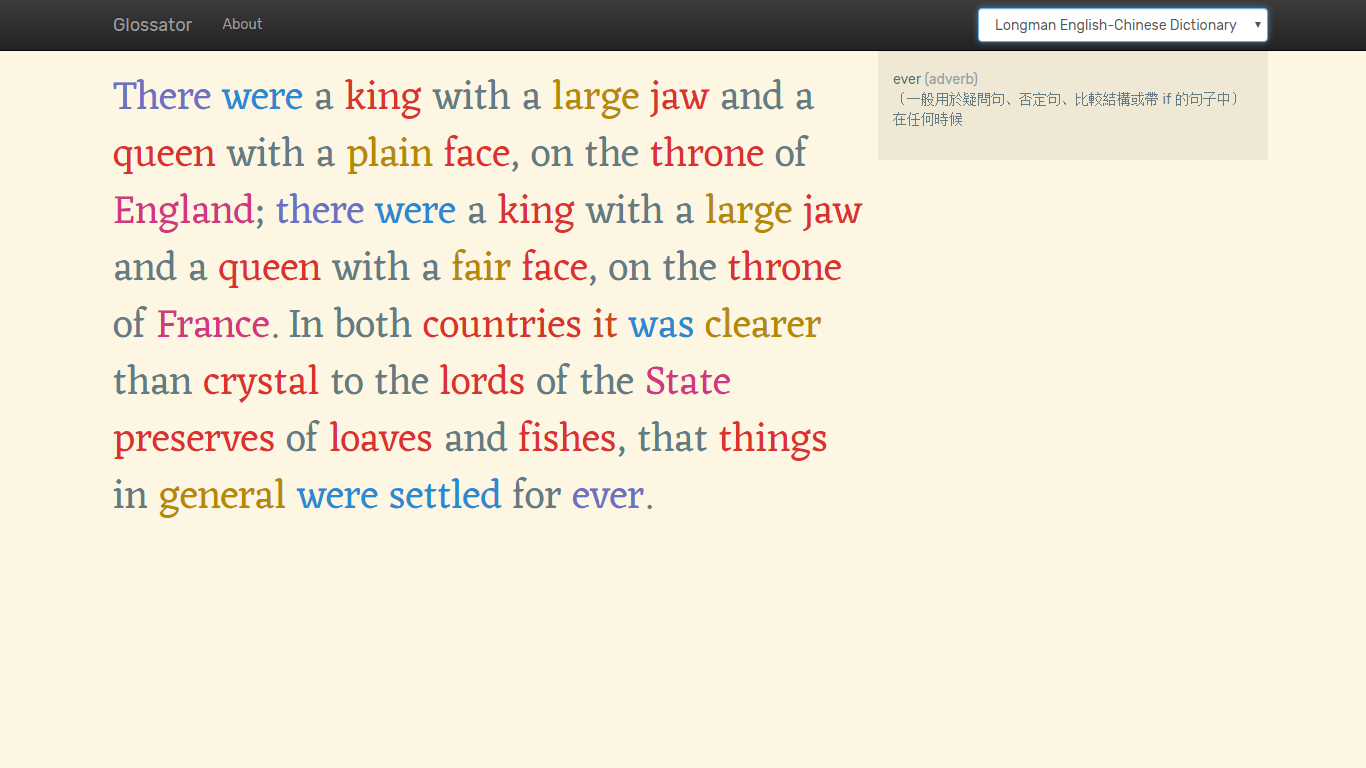
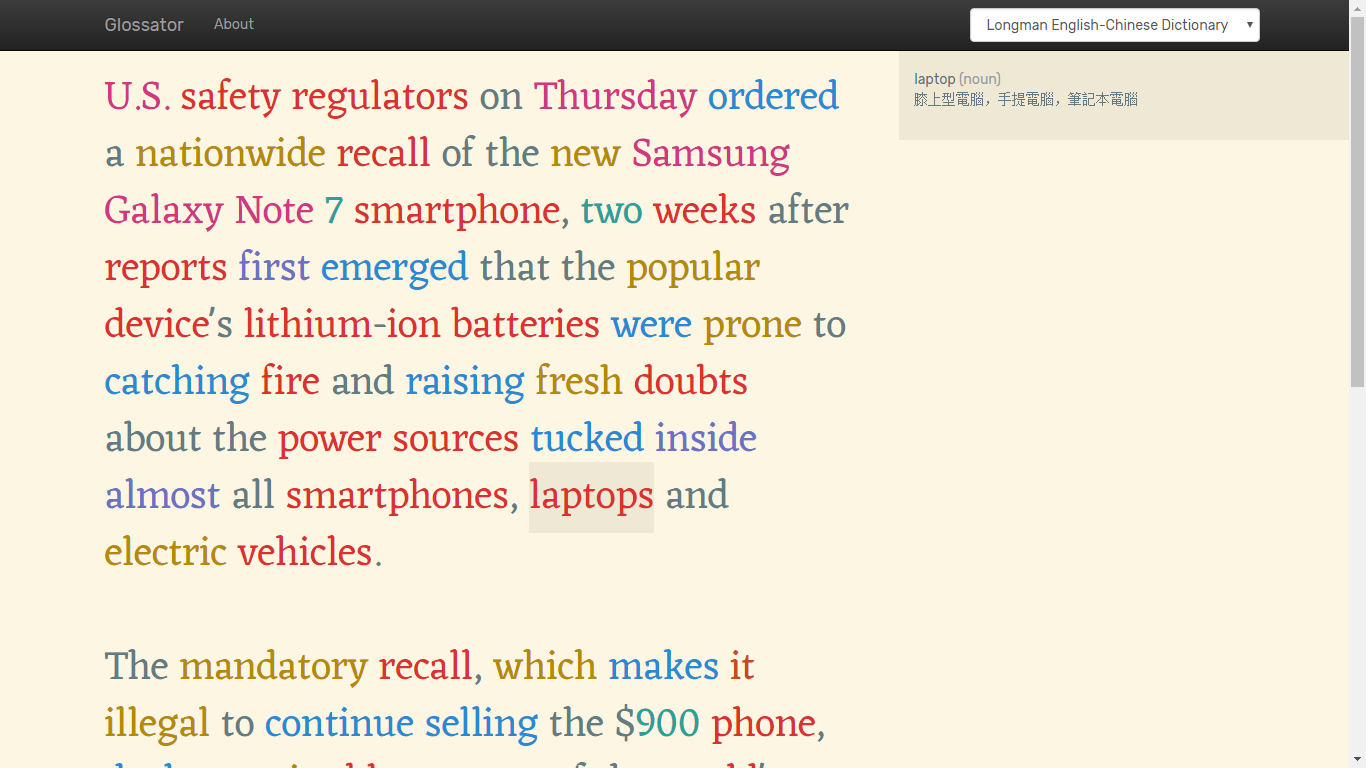
Final submission to Ramhacks

diff --git a/static/js/def_format.js b/static/js/def_format.js
@@ -77,6 +77,16 @@ $( "span.pword" ).mouseover(function() {
 
     $.get(pathstring, function(data) {
         if (data["results"].length != 0) {
+
+$( "span.word").each(function() {
+    $(this).css("background-color", "transparent");
+});
+$( "span[name=" + word + "]" ).each(function() {
+    $(this).css("background-color", "#eee8d5");
+});
+
+
+
             var defin = convert(word, data);
             $("div.defbox").html(defin);
         } else {
@@ -84,10 +94,20 @@ $( "span.pword" ).mouseover(function() {
             // and modify the defbox if the more broader query works...
             retry_pathstring = base.concat(word)
             $.get(retry_pathstring, function(retry_data) {
-                if (retry_data["results"].length != 0) {
+                //if (retry_data["results"].length != 0) {
+
+
+$( "span.word").each(function() {
+    $(this).css("background-color", "transparent");
+});
+$( "span[name=" + word + "]" ).each(function() {
+    $(this).css("background-color", "#eee8d5");
+});
+
+
                     var retry_defin = convert(word, retry_data);
                     $("div.defbox").html(retry_defin);
-                }
+                //}
             })
         }
 
@@ -121,6 +141,16 @@ $( "span.pword" ).mouseover(function() {
 
     $.get(pathstring, function(data) {
         if (data["results"].length != 0) {
+
+
+$( "span.word").each(function() {
+    $(this).css("background-color", "transparent");
+});
+$( "span[name=" + word + "]" ).each(function() {
+    $(this).css("background-color", "#eee8d5");
+});
+
+
             var defin = translate(word, data);
             $("div.defbox").html(defin);
         } else {
@@ -128,10 +158,20 @@ $( "span.pword" ).mouseover(function() {
             // and modify the defbox if the more broader query works...
             retry_pathstring = base.concat(word)
             $.get(retry_pathstring, function(retry_data) {
-                if (retry_data["results"].length != 0) {
+                //if (retry_data["results"].length != 0) {
+
+
+$( "span.word").each(function() {
+    $(this).css("background-color", "transparent");
+});
+$( "span[name=" + word + "]" ).each(function() {
+    $(this).css("background-color", "#eee8d5");
+});
+
+
                     var retry_defin = translate(word, retry_data);
                     $("div.defbox").html(retry_defin);
-                }
+                //}
             })
         }
 
@@ -139,5 +179,33 @@ $( "span.pword" ).mouseover(function() {
   }
 })
 
+
+$(function() {
+
+  // We can attach the `fileselect` event to all file inputs on the page
+  $(document).on('change', ':file', function() {
+    var input = $(this),
+        numFiles = input.get(0).files ? input.get(0).files.length : 1,
+        label = input.val().replace(/\\/g, '/').replace(/.*\//, '');
+    input.trigger('fileselect', [numFiles, label]);
+  });
+
+  // We can watch for our custom `fileselect` event like this
+  $(document).ready( function() {
+      $(':file').on('fileselect', function(event, numFiles, label) {
+
+          var input = $(this).parents('.input-group').find(':text'),
+              log = numFiles > 1 ? numFiles + ' files selected' : label;
+
+          if( input.length ) {
+              input.val(log);
+          } else {
+              if( log ) alert(log);
+          }
+
+      });
+  });
+  
+});
 
 

diff --git a/templates/base.html b/templates/base.html
@@ -76,6 +76,13 @@
     <div class="circle" style="background-color: #dc322f">Noun</div>
   </div>
   <div clas="col-sm-3">
+    <div class="circle" style="background-color: #d33682">Prop Noun</div>
+  </div>
+  <div clas="col-sm-3">
+    <div class="circle" style="background-color: #cb4b16">Pronoun</div>
+  </div>
+
+  <div clas="col-sm-3">
     <div class="circle" style="background-color: #268bd2">Verb</div>
   </div>
   <div clas="col-sm-3">
@@ -83,12 +90,6 @@
   </div>
   <div clas="col-sm-3">
     <div class="circle" style="background-color: #6c71c4">Adverb</div>
-  </div>
-  <div clas="col-sm-3">
-    <div class="circle" style="background-color: #cb4b16">Pronoun</div>
-  </div>
-  <div clas="col-sm-3">
-    <div class="circle" style="background-color: #d33682">Prop Noun</div>
   </div>
   </div>
 

diff --git a/templates/parsed.html b/templates/parsed.html
@@ -57,7 +57,7 @@
     <div class="row">
       <div class="col-sm-8 l-pane">
         <p class="paragraph">
-          {% for word in words %}<span class="{{ word.pos_ }} pword word" name="{{ word.lemma_ }}" pos="{{ word.pos_ }}">{{ word.orth_ }}</span>{{ word.whitespace_ }}{% endfor %}
+          {% for word in words %}{% if (word.pos_ == "SPACE") %}<br><br>{% else %}<span class="{{ word.pos_ }} pword word" name="{{ word.lemma_ }}" pos="{{ word.pos_ }}">{{ word.orth_ }}</span>{{ word.whitespace_ }}{% endif %}{% endfor %}
         </p>
       </div>
 

diff --git a/static/css/glossator.css b/static/css/glossator.css
@@ -40,6 +40,9 @@ body {
   background-color: #eee8d5;
   padding-top: 2rem;
   padding-bottom: 2rem;
+  position: fixed;
+  top: 50px;
+  right: 0px;
 }
 
 .headword {
